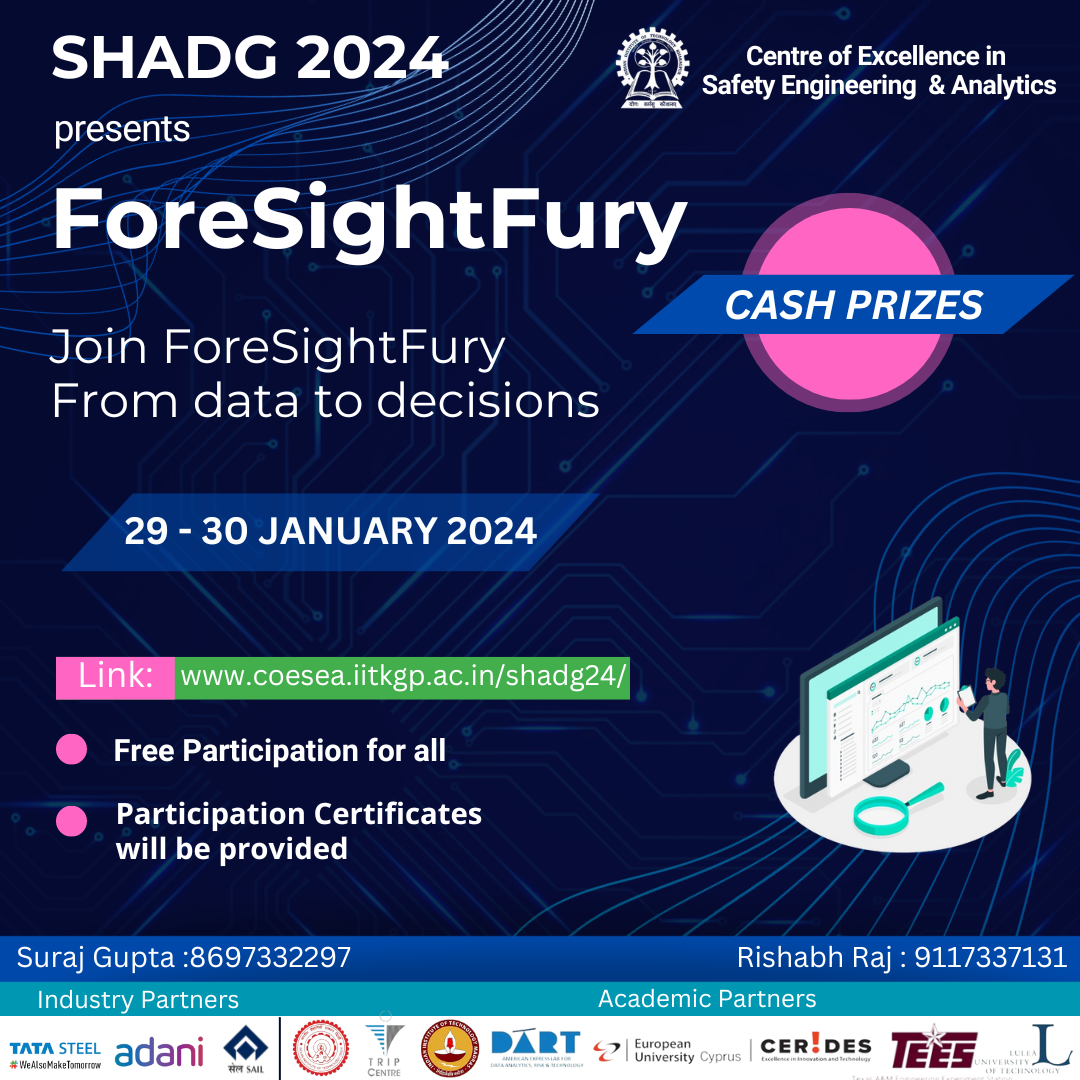
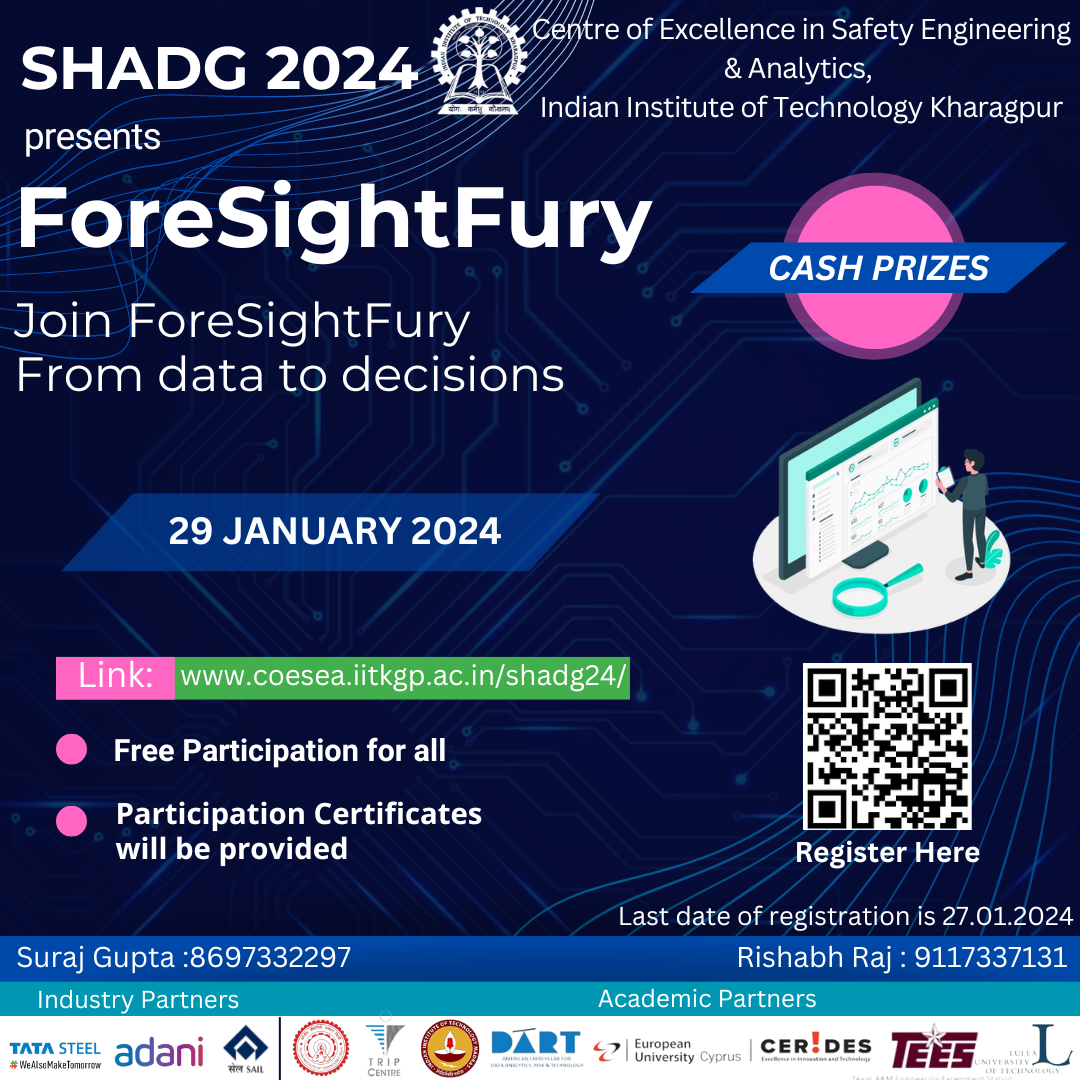
added the recent changes

Changed region(s): [[0.0, 0.0, 1.0, 0.8556], [0.0, 0.275, 0.55, 0.3972], [0.1222, 0.4583, 0.4889, 0.5194]]

diff --git a/ForeSightFury.html b/ForeSightFury.html
@@ -107,7 +107,7 @@
                 <i class="bi bi-broadcast"></i>
                 <div>
                   <h5>End Date
-                    25 Jan 24, 11:59 PM IST</h5>
+                    27 Jan 24, 5:00 PM IST</h5>
                  
                 </div>
               </li>
@@ -125,18 +125,11 @@
                 <i class="bi bi-fullscreen-exit"></i>
                 <div>
                   <h5>Start Date
-                    29 Jan 24, 10:00 AM IST</h5>
+                    29 Jan 24, 09:30 AM IST</h5>
                     
                    </div>
               </li>
-              <li data-aos="fade-up" data-aos-delay="300">
-                <i class="bi bi-broadcast"></i>
-                <div>
-                  <h5>End Date
-                    30 Jan 24, 10:00 PM IST</h5>
-                 
-                </div>
-              </li>
+              
             </div>
             </ul>
           </div>
@@ -170,7 +163,7 @@
               Judges will assess the quality of the case presentation, the effectiveness of the models, and the overall feasibility and impact of the proposed solutions. Teams will be scored based on their ability to solve the given problem , feasibility of the solution & presentation.
             </p>
             <ul>
-              <li><i class="bi bi-check"></i> The registrations will close by <b>11:59 PM, 21st January 2024.</b></li>
+              <li><i class="bi bi-check"></i> The registrations will close by <b>05:00 PM, 27th January 2024.</b></li>
               <li><i class="bi bi-check"></i> Teams must comprise of a minimum 1 and maximum 2 members, all of whom must be enrolled in a graduate or a post-graduate program at the time of the submission.</li>
               <li><i class="bi bi-check"></i> Cross-college teams are allowed.</li>
             </ul>

diff --git a/CodeCanvas.html b/CodeCanvas.html
@@ -107,7 +107,7 @@
                 <i class="bi bi-broadcast"></i>
                 <div>
                   <h5>End Date
-                    25 Jan 24, 11:59 PM IST</h5>
+                    27 Jan 24, 5:00 PM IST</h5>
                  
                 </div>
               </li>
@@ -125,18 +125,11 @@
                 <i class="bi bi-fullscreen-exit"></i>
                 <div>
                   <h5>Start Date
-                    29 Jan 24, 10:00 AM IST</h5>
+                    29 Jan 24, 09:30 AM IST</h5>
                     
                    </div>
               </li>
-              <li data-aos="fade-up" data-aos-delay="300">
-                <i class="bi bi-broadcast"></i>
-                <div>
-                  <h5>End Date
-                    30 Jan 24, 10:00 PM IST</h5>
-                 
-                </div>
-              </li>
+             
             </div>
             </ul>
           </div>
@@ -170,7 +163,7 @@
               Judges will assess the quality of the case presentation, the effectiveness of the models, and the overall feasibility and impact of the proposed solutions. Teams will be scored based on their ability to solve the given problem , feasibility of the solution & presentation.
             </p>
             <ul>
-              <li><i class="bi bi-check"></i> The registrations will close by <b>11:59 PM, 21st January 2024.</b></li>
+              <li><i class="bi bi-check"></i> The registrations will close by <b>05:00 PM, 27th January 2024.</b></li>
               <li><i class="bi bi-check"></i> Teams must comprise of a minimum 1 and maximum 2 members, all of whom must be enrolled in a graduate or a post-graduate program at the time of the submission.</li>
               <li><i class="bi bi-check"></i> Cross-college teams are allowed.</li>
             </ul>

diff --git a/Safe360.html b/Safe360.html
@@ -107,7 +107,7 @@
                 <i class="bi bi-broadcast"></i>
                 <div>
                   <h5>End Date
-                    25 Jan 24, 11:59 PM IST</h5>
+                    27 Jan 24, 5:00 PM IST</h5>
                  
                 </div>
               </li>
@@ -125,18 +125,11 @@
                 <i class="bi bi-fullscreen-exit"></i>
                 <div>
                   <h5>Start Date
-                    29 Jan 24, 10:00 AM IST</h5>
+                    29 Jan 24, 09:30 AM IST</h5>
                     
                    </div>
               </li>
-              <li data-aos="fade-up" data-aos-delay="300">
-                <i class="bi bi-broadcast"></i>
-                <div>
-                  <h5>End Date
-                    30 Jan 24, 10:00 PM IST</h5>
-                 
-                </div>
-              </li>
+            
             </div>
             </ul>
           </div>
@@ -170,7 +163,7 @@
               Judges will assess the quality of the case presentation, the effectiveness of the models, and the overall feasibility and impact of the proposed solutions. Teams will be scored based on their ability to solve the given problem , feasibility of the solution & presentation.
             </p>
             <ul>
-              <li><i class="bi bi-check"></i> The registrations will close by <b>11:59 PM, 21st January 2024.</b></li>
+              <li><i class="bi bi-check"></i> The registrations will close by <b>05:00 PM, 27th January 2024.</b></li>
               <li><i class="bi bi-check"></i> Teams must comprise of a minimum 1 and maximum 2 members, all of whom must be enrolled in a graduate or a post-graduate program at the time of the submission.</li>
               <li><i class="bi bi-check"></i> Cross-college teams are allowed.</li>
             </ul>

diff --git a/assets/css/main.css b/assets/css/main.css
@@ -658,7 +658,7 @@ section {
   line-height: 0;
 }
 .bord{
-  border: 1px solid #1c097f;
+  /* border: 1px solid #1c097f; */
   padding: 8px;
   width: 100%;
   border-radius: 5px;
